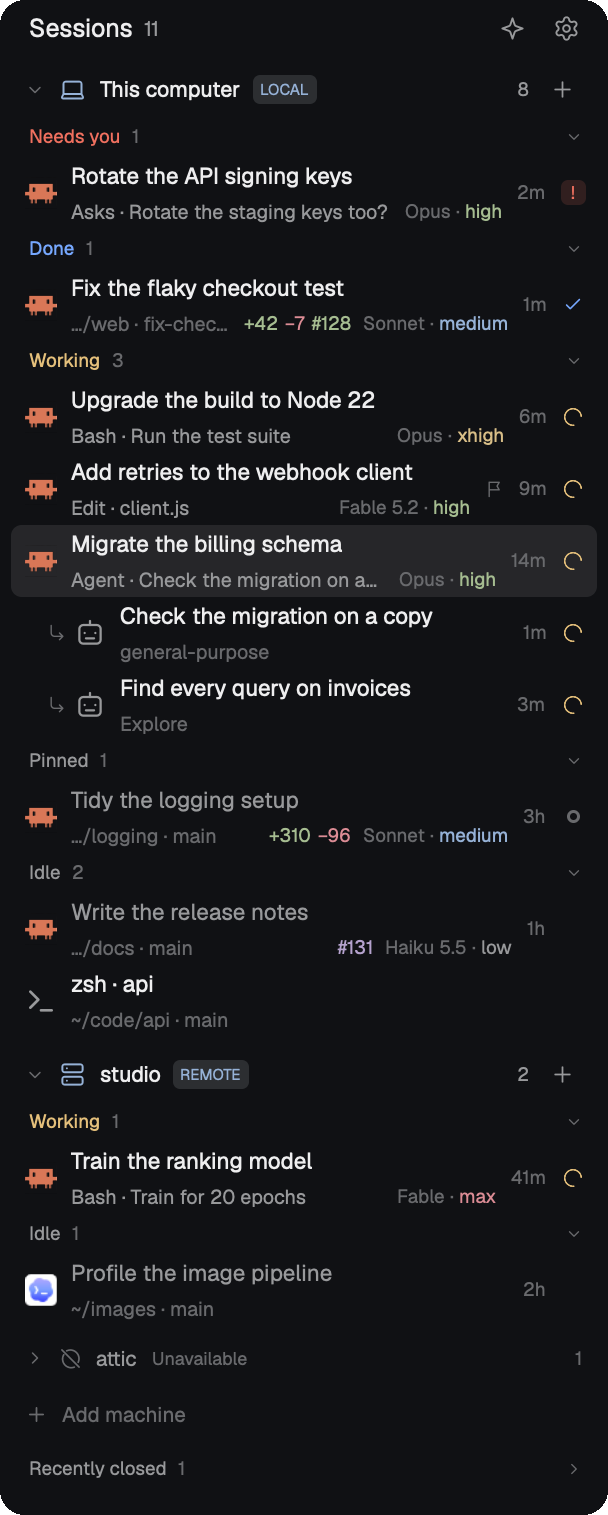
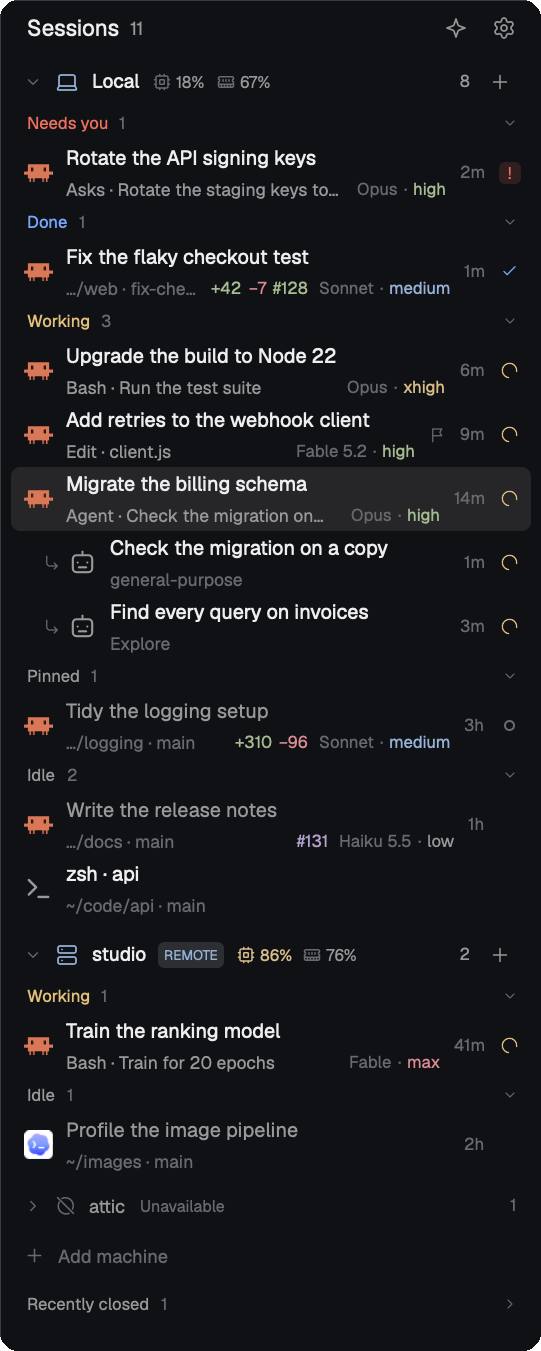
feat: each machine's CPU and memory beside its name
With more than one machine, each heading follows the name with its CPU
and the share of its memory in use, in the count's gray, turning amber
and red at herdr-stats' thresholds. On a Mac memory goes by its
pressure, since most of it is always in use. The figures give way,
memory first, when the sidebar is narrow; the tooltip keeps them.

Every ten seconds, while headings show, a short sh script measures each
machine: iostat over a second, sysctl and vm_stat on a Mac, /proc on
Linux. On this computer herdr-stats' snapshot is read instead while its
sampler runs. A switch in the List settings turns it off.

Also fixes Organize: it stored its asker in the probe's per-machine
clock, so the next probe threw and the background loop stopped until
the sidebar reloaded.

diff --git a/mods/agent-sidebar/main.js b/mods/agent-sidebar/main.js
@@ -1,8 +1,8 @@
 import { View, div, svg, image } from "gpui-kit";
 import { h_flex, v_flex, InputState, Input, ScrollHandle } from "gpui-base";
-import { agents, terminals, panes, spaces, machines, focused, theme, settings, run, hc, notify, setAgentOrder, nextCommand, openOverlay, props, shared, setShared, updates, exec, pickFolder, readTextFile, home } from "herdr";
-import { build, groups, counts, WORDS, BACKGROUND, modelName, fitWhere, activityText, tokens, canMove, movable, moveArgs, canReply, stale, ended, remember, resumeAction, organizeBrief, organizePlan, previewOf, latestCodex, organizeAnswer, ORGANIZE_SYSTEM, ORGANIZE_SCHEMA, folderKey, DENSITY_KEY, GROUP_KEY, SETTINGS_KEY, settingsOf, STALE_SESSION_MS, openAction, closeAction, duration, backgroundLines, machineOf, shortPath, holdDone, dropLeaving } from "./model.js";
-import { PROBE, PROBE_MS, KIND, CHANGES, PULLS, parseChanges, parsePulls, machineKind, parseProbe, probeArgs, probeTargets, workOf, signature } from "./background.js";
+import { agents, terminals, panes, spaces, machines, focused, theme, settings, run, hc, notify, setAgentOrder, nextCommand, openOverlay, props, shared, setShared, updates, exec, pickFolder, readTextFile, home, window } from "herdr";
+import { build, groups, counts, WORDS, BACKGROUND, modelName, fitWhere, activityText, tokens, canMove, movable, moveArgs, canReply, stale, ended, remember, resumeAction, organizeBrief, organizePlan, previewOf, latestCodex, organizeAnswer, ORGANIZE_SYSTEM, ORGANIZE_SCHEMA, folderKey, DENSITY_KEY, GROUP_KEY, SETTINGS_KEY, settingsOf, STALE_SESSION_MS, openAction, closeAction, duration, backgroundLines, machineOf, shortPath, holdDone, dropLeaving, statFigures, statsText } from "./model.js";
+import { PROBE, PROBE_MS, KIND, CHANGES, PULLS, STATS, STATS_MS, STATS_STALE_MS, parseChanges, parsePulls, machineKind, parseProbe, parseStats, snapshotStats, probeArgs, probeTargets, workOf, signature } from "./background.js";
 import { initLauncher, renderLauncher, LAUNCHER } from "./launcher.js";
 import { initSettings, renderSettings, SETTINGS } from "./settings.js";
 import { demo } from "./demo.js";
@@ -84,6 +84,12 @@ const HEIGHT = { host: 30, hostState: 10, hostGap: 6, away: 24, section: 22, fol
 const hostHeight = (group, first, firstAway) => isAway(group) ? HEIGHT.away + (firstAway && !first ? HEIGHT.hostGap : 0)
   : HEIGHT.host + (hostState(group) ? HEIGHT.hostState : 0) + (first ? 0 : HEIGHT.hostGap);
 const NEWS = new Set(["blocked", "done"]);
+// A machine's figures (model.js statFigures), each a glyph, a gap and "100%" at most, and the
+// gap between two.
+const STAT_WIDTH = 34;
+const STAT_GAP = 7;
+// What a reading shows, without its time: the heading redraws only when this changes.
+const statsKey = r => r ? statFigures(r).map(f => `${f.key}:${f.text}:${f.level}`).join(" ") : "";
 // Per-copy conveniences only (folded hosts and sections). Storage can be missing or throw.
 const store = {
   get(key, fallback) { try { return JSON.parse(localStorage.getItem(key)) ?? fallback; } catch { return fallback; } },
@@ -120,9 +126,9 @@ export default class AgentSidebar extends View {
     this.pending = [];
     // New spaces a move makes, to name once Herdr shows them: { id, name, at }.
     this.naming = [];
-    // The suggestion for the spaces (Claude's or Codex's, `asked`): null, "asking", or
+    // The suggestion for the spaces (Claude's or Codex's, `asker`): null, "asking", or
     // { renames, moves } to apply.
-    this.asked = "Claude";
+    this.asker = "Claude";
     this.plan = null;
     // The moves of that suggestion the person took out, and which asking an answer is for.
     this.skip = new Set();
@@ -188,7 +194,8 @@ export default class AgentSidebar extends View {
     this.stale = new Set(); // machines to ask again as soon as allowed
     this.kinds = new Map(); // machine → true once it said what it is, else when it was asked
     this.git = new Map(); // machine → { changes, pulls: folder → what git and GitHub said, asked, pulled: when }
-    if (example) Object.assign(this, { work: example.work, git: example.git });
+    this.stats = new Map(); // machine → { reading: how busy it was (background.js STATS), asked: when, asking }
+    if (example) Object.assign(this, { work: example.work, git: example.git, stats: example.stats });
     cx.spawn(async cx => {
       let wake = () => {};
       for (;;) {
@@ -196,6 +203,7 @@ export default class AgentSidebar extends View {
           this.probe(() => wake());
           this.askKinds(() => wake());
           this.askGit(() => wake());
+          this.askStats(() => wake());
           this.finishMoves();
         }
         // A second, or less when an answer arrives or a move is under way.
@@ -297,6 +305,38 @@ export default class AgentSidebar extends View {
         ask(PULLS, branches, 30000, out => { state.pulls = parsePulls(out, branches); });
       }
     }
+  }
+
+  // Asks each machine whose heading shows (render's `this.headed`) how busy it is, every
+  // STATS_MS: nothing while the figures are off, in a rail, or with no machine headings. This
+  // computer's are herdr-stats' own when its sampler runs, read from its snapshot; otherwise,
+  // and on every other machine, the STATS script measures them.
+  askStats(answered) {
+    const due = this.cfg.stats ? this.headed ?? [] : [];
+    for (const machine of [...this.stats.keys()]) if (!due.includes(machine)) this.stats.delete(machine);
+    const now = Date.now();
+    for (const machine of due) {
+      if (!this.stats.has(machine)) this.stats.set(machine, { reading: null, asked: 0, asking: false });
+      const state = this.stats.get(machine);
+      if (state.asking || now - state.asked < STATS_MS) continue;
+      Object.assign(state, { asked: now, asking: true });
+      this.measure(machine).then(reading => {
+        if (!reading) return;
+        const before = statsKey(state.reading);
+        state.reading = reading;
+        if (statsKey(reading) !== before) { this.changed = true; answered(); }
+      }).catch(() => { /* asked again later; the last reading goes stale */ }).finally(() => { state.asking = false; });
+    }
+  }
+
+  async measure(machine) {
+    if (machine == null) {
+      const cache = window()?.platform === "macos" ? "Library/Caches" : ".cache";
+      const snap = snapshotStats(await readTextFile(`${home()}/${cache}/herdr-stats/snapshot.json`).catch(() => null));
+      if (snap) return snap;
+    }
+    const result = await exec("sh", ["-c", STATS], { on: machine, timeout: 10000 });
+    return result.code === 0 ? parseStats(result.stdout) : null;
   }
 
   // The launcher: a folder, then a shell or an agent to start there. At the pointer from a +,
@@ -515,7 +555,7 @@ export default class AgentSidebar extends View {
     const failed = why => { if (ask !== this.asks) return; this.plan = null; notify({ title: "Could not organize the sessions", body: String(why ?? "").trim().slice(0, 200), level: "warning" }); };
     const cfg = this.cfg;
     const codex = cfg.organizeWith === "codex";
-    const who = this.asked = ASKED[cfg.organizeWith];
+    const who = this.asker = ASKED[cfg.organizeWith];
     const schema = JSON.stringify(ORGANIZE_SCHEMA);
     // Codex is given the latest model of the family chosen, as its own list has it.
     const asking = !codex ? exec("sh", ["-c", ORGANIZE_SH, "sh", ...organizeArgs(cfg), "--json-schema", schema, "--system-prompt", ORGANIZE_SYSTEM, prompt], { on: null, timeout: 120000 })
@@ -555,7 +595,7 @@ export default class AgentSidebar extends View {
     const asking = this.plan === "asking";
     const codex = this.cfg.organizeWith === "codex";
     const model = codex ? (this.cfg.organizeCodex === "auto" ? "its own model" : `latest ${this.cfg.organizeCodex}`) : this.cfg.organizeModel;
-    const tip = asking ? `Asking ${this.asked}…` : `Organize into spaces with ${ASKED[this.cfg.organizeWith]} (${model}, ${this.cfg.organizeEffort} effort): previews, then asks`;
+    const tip = asking ? `Asking ${this.asker}…` : `Organize into spaces with ${ASKED[this.cfg.organizeWith]} (${model}, ${this.cfg.organizeEffort} effort): previews, then asks`;
     return div().id("organize").size(26).flex_none().rounded(6).flex().items_center().justify_center()
       .role("button").accessibility_label(tip).cursor_pointer().text_color(asking ? t.accent : t.muted)
       .hover(s => s.bg(t.hover).text_color(t.foreground)).tooltip(tip)
@@ -576,7 +616,7 @@ export default class AgentSidebar extends View {
     if (!preview) {
       return box.child(h_flex().gap(7).items_center()
         .child(glyph("sparkles", 13).text_color(t.accent).loop("opacity", { from: 0.35, to: 1, period: 1100 }))
-        .child(div().flex_1().min_w(0).truncate().text_size(11.5).font_medium().child(`Asking ${this.asked} how to arrange them…`))
+        .child(div().flex_1().min_w(0).truncate().text_size(11.5).font_medium().child(`Asking ${this.asker} how to arrange them…`))
         .child(button("plan-dismiss", "Cancel", false, dismiss)));
     }
     const count = (n, one, many) => n ? `${n} ${n === 1 ? one : many}` : "";
@@ -585,7 +625,7 @@ export default class AgentSidebar extends View {
     return box
       .child(h_flex().gap(7).items_center()
         .child(glyph("sparkles", 13).text_color(t.accent))
-        .child(div().flex_1().min_w(0).truncate().text_size(11.5).font_medium().child(`${this.asked}'s suggestion, previewed below`)))
+        .child(div().flex_1().min_w(0).truncate().text_size(11.5).font_medium().child(`${this.asker}'s suggestion, previewed below`)))
       .child(div().text_size(11).text_color(t.muted).child(summary))
       .child(div().text_size(10.5).text_color(t.dim).child("Highlighted sessions would move. Click one to leave it where it is. Nothing changes until you apply; Esc dismisses."))
       .child(h_flex().gap(6).mt(1).items_center()
@@ -1118,13 +1158,23 @@ export default class AgentSidebar extends View {
     const space = this.bySpace && !state ? this.newSpaceButton(t, group) : null;
     const kind = this.x.shared(KINDS_KEY)?.[group.name ?? ""];
     const icon = KIND_ICON[kind] ?? (group.remote ? "server" : "computer");
-    const label = `${group.remote ? "Remote" : "Local"} host ${group.label}, ${counts(group.rows).all} sessions${state ? `, ${state}` : ""}, ${open ? "expanded" : "collapsed"}`;
+    const reading = this.statsOf(group);
+    const busy = reading ? statsText(reading) : "";
+    const label = `${group.remote ? "Remote" : "Local"} host ${group.label}, ${counts(group.rows).all} sessions${state ? `, ${state}` : ""}${busy ? `, ${busy}` : ""}, ${open ? "expanded" : "collapsed"}`;
     const root = h_flex().id(`host-${group.key}`).flex_none().items_center()
       .role("button").accessibility_label(label).cursor_pointer()
-      .tooltip(`${group.remote ? "Remote host" : "Local machine"}: ${group.label}${KIND_ICON[kind] ? ` · ${kind}` : ""}${state ? ` · ${state}` : ""}`)
+      .tooltip(`${group.remote ? "Remote host" : "Local machine"}: ${group.label}${KIND_ICON[kind] ? ` · ${kind}` : ""}${state ? ` · ${state}` : ""}${busy ? `\n${busy}` : ""}`)
       .on_click((_e, cx) => this.toggle(group.key, cx));
     if (compact) return root.h(30).px(6).gap(4).justify_center().when(!first, el => el.mt(4).border_t(1).border_color(t.border))
       .child(glyph(icon, 14).text_color(color)).child(add);
+    const summary = open ? [] : this.summary(t, group);
+    // The figures take the room the name leaves, and go when there is too little (the tooltip
+    // keeps them). Roughly: the padding, chevron and icon; the name and its tag; the summary,
+    // count and buttons at the end.
+    const room = this.width - 12 - 50 - Math.ceil(group.label.length * 6.4) - (group.remote ? 50 : 0)
+      - summary.length * 30 - 60 - (space ? 30 : 0) - 8;
+    const shown = reading ? statFigures(reading).slice(0, Math.max(0, Math.floor((room + STAT_GAP) / (STAT_WIDTH + STAT_GAP)))) : [];
+    const tones = [t.muted, t.ansi3 ?? t.working, t.ansi1 ?? t.blocked];
     // Grouped by space, a machine's heading also starts a new space there.
     return root.h(HEIGHT.host + (state ? HEIGHT.hostState : 0)).px(8).gap(8).rounded(6)
       .when(!first, el => el.mt(HEIGHT.hostGap))
@@ -1134,12 +1184,22 @@ export default class AgentSidebar extends View {
       .child(v_flex().flex_1().min_w(0).gap(1)
         .child(h_flex().min_w(0).gap(6).items_center()
           .child(div().min_w(0).truncate().font_semibold().text_size(12).text_color(t.foreground).child(group.label))
-          .when(group.remote, el => el.child(div().flex_none().px(4).py(1).rounded(4).bg(t.raised).text_size(8.5).font_semibold().text_color(color).child("REMOTE"))))
+          .when(group.remote, el => el.child(div().flex_none().px(4).py(1).rounded(4).bg(t.raised).text_size(8.5).font_semibold().text_color(color).child("REMOTE")))
+          .when(shown.length > 0, el => el.child(h_flex().id(`stats-${group.key}`).flex_none().ml(2).gap(STAT_GAP).items_center().tooltip(busy)
+            .children(shown.map(f => h_flex().id(`stat-${group.key}-${f.key}`).flex_none().gap(3).items_center()
+              .child(glyph(f.key, 11).text_color(f.level ? tones[f.level] : t.dim))
+              .child(div().min_w(19).text_size(10).text_color(tones[f.level]).child(f.text)))))))
         .when(Boolean(state), el => el.child(div().text_size(10).text_color(group.layout === "loading" ? t.muted : t.blocked).child(state))))
-      .when(!open, el => el.children(this.summary(t, group)))
+      .children(summary)
       .child(div().flex_none().min_w(14).text_size(10.5).text_color(t.muted).text_right().child(String(counts(group.rows).all)))
       .when(Boolean(space), el => el.child(space))
       .child(add);
+  }
+
+  // The machine's last reading, while the figures are on and it is fresh.
+  statsOf(group) {
+    const reading = this.cfg.stats ? this.stats.get(group.name ?? null)?.reading : null;
+    return reading && Date.now() - reading.at <= STATS_STALE_MS ? reading : null;
   }
 
   newSpaceButton(t, group, size = 22) {
@@ -1220,6 +1280,9 @@ export default class AgentSidebar extends View {
     this.expanded = this.x.shared(DENSITY_KEY) === "expanded";
     // Only this computer: no host heading, which would only repeat it. Its + moves to the title bar.
     this.single = !hosts.some(host => host.name != null);
+    // The machines whose heading shows, for askStats: their figures go beside the name, or only
+    // into its tooltip when the name leaves no room.
+    this.headed = this.single || compact ? [] : sections.filter(group => !group.flat && !isAway(group) && group.layout === "ready").map(group => group.name ?? null);
     const local = { layout: "loading", ...hosts.find(host => host.name == null), name: null, key: "local", label: "Local" };
     this.visible = [];
     this.positions = new Map();

diff --git a/mods/agent-sidebar/background.js b/mods/agent-sidebar/background.js
@@ -274,6 +274,75 @@ esac
 export const KINDS = ["laptop", "desktop", "server"];
 export const machineKind = output => KINDS.find(kind => kind === String(output ?? "").trim()) ?? null;
 
+// How busy a machine is, for its heading. POSIX sh; prints one line,
+//   U <cpu %|-> <memory used, bytes> <memory, bytes> <pressure %|->
+// CPU is the share busy over one second: on a Mac iostat's second report (its first is since
+// boot), elsewhere /proc/stat read a second apart. Memory used is counted as herdr-stats and
+// Activity Monitor count it on a Mac (app, wired and compressed), MemTotal less MemAvailable
+// elsewhere; a Mac's memory pressure is what kern.memorystatus_level leaves free. About 10 ms
+// of work and a second of waiting; it changes nothing.
+export const STATS = `PATH="$PATH:/usr/sbin:/sbin"
+case $(uname -s 2>/dev/null) in
+  Darwin)
+    cpu=$(iostat -n 0 -c 2 -w 1 2>/dev/null | awk 'END { if (NF >= 3 && $3 ~ /^[0-9]+$/) print 100 - $3; else print "-" }')
+    set -- $(sysctl -n hw.memsize kern.memorystatus_level 2>/dev/null)
+    vm_stat 2>/dev/null | awk -v cpu="\${cpu:--}" -v total="\${1:-0}" -v level="\${2:--}" '
+      /page size of/ { for (i = 1; i < NF; i++) if ($i == "of") page = $(i + 1) }
+      /^Anonymous pages:/ { app = $NF + 0 }
+      /^Pages purgeable:/ { purge = $NF + 0 }
+      /^Pages wired down:/ { wired = $NF + 0 }
+      /^Pages occupied by compressor:/ { comp = $NF + 0 }
+      END {
+        used = (app - purge + wired + comp) * page
+        if (used > total) used = total
+        pressure = "-"
+        if (level ~ /^[0-9]+$/ && level + 0 <= 100) pressure = 100 - level
+        printf "U %s %.0f %.0f %s\\n", cpu, used, total, pressure
+      }' ;;
+  Linux)
+    { head -n 1 /proc/stat; sleep 1; head -n 1 /proc/stat; cat /proc/meminfo; } 2>/dev/null | awk '
+      $1 == "cpu" { n++; busy[n] = $2 + $3 + $4 + $7 + $8 + $9; idle[n] = $5 + $6 }
+      $1 == "MemTotal:" { total = $2 * 1024 }
+      $1 == "MemAvailable:" { avail = $2 * 1024; seen = 1 }
+      END {
+        cpu = "-"
+        d = busy[2] - busy[1] + idle[2] - idle[1]
+        if (n == 2 && d > 0) cpu = sprintf("%.0f", (busy[2] - busy[1]) * 100 / d)
+        if (!seen) total = avail = 0
+        printf "U %s %.0f %.0f -\\n", cpu, total - avail, total
+      }' ;;
+esac
+`;
+// A machine is asked this often while its heading shows; a reading older than STATS_STALE_MS
+// is not shown (the machine stopped answering).
+export const STATS_MS = 10000;
+export const STATS_STALE_MS = 45000;
+const share = n => Math.min(Math.max(n, 0), 100) / 100;
+// What STATS printed: { cpu, used, total, pressure, at } (cpu and pressure fractions of one or
+// null, memory null when it said none), or null when it said nothing.
+export function parseStats(output, at = Date.now()) {
+  const m = /^U (-|\d{1,3}) (\d{1,20}) (\d{1,20}) (-|\d{1,3})$/m.exec(String(output ?? ""));
+  if (!m) return null;
+  const total = Number(m[3]);
+  const reading = { cpu: m[1] === "-" ? null : share(Number(m[1])), used: total > 0 ? Math.min(Number(m[2]), total) : null,
+    total: total > 0 ? total : null, pressure: m[4] === "-" ? null : share(Number(m[4])), at };
+  return reading.cpu === null && reading.total === null ? null : reading;
+}
+// herdr-stats' snapshot of this computer (its file: herdr-stats/snapshot.json in the cache
+// folder), when its sampler is running: the same figures, read rather than measured again.
+// Null when it is missing, unreadable, of another version, or older than `fresh`.
+export function snapshotStats(text, now = Date.now(), fresh = 5000) {
+  let snap;
+  try { snap = JSON.parse(text); } catch { return null; }
+  if (snap?.v !== 1 || !Number.isFinite(snap.t) || Math.abs(now - snap.t) > fresh) return null;
+  const fraction = n => Number.isFinite(n) ? Math.min(Math.max(n, 0), 1) : null;
+  const { total, used } = snap.mem ?? {};
+  const memory = Number.isFinite(total) && total > 0 && Number.isFinite(used);
+  const reading = { cpu: fraction(snap.cpu?.total), used: memory ? Math.min(Math.max(used, 0), total) : null, total: memory ? total : null,
+    pressure: fraction(snap.mem?.pressure), at: snap.t };
+  return reading.cpu === null && reading.total === null ? null : reading;
+}
+
 // What each folder has changed since its last commit, and its branch's pull request. POSIX sh;
 // the folders are the arguments, and each answer names its folder by its place among them.
 // git is asked not to take its optional locks, so it never gets in the way of an agent's own

diff --git a/mods/agent-sidebar/model.js b/mods/agent-sidebar/model.js
@@ -544,13 +544,36 @@ export function previewOf(rows, spaces, plan, skip = new Set()) {
 // answer it. Never to a shell, where it would run.
 export const canReply = row => Boolean(row?.available && row.kind === "agent" && !row.inner && row.reported !== "blocked");
 
+// How busy a machine is (background.js parseStats), beside its name: CPU and memory in use,
+// quiet until one runs high, then a warning (1) and worse (2) at herdr-stats' thresholds.
+// Memory goes by its pressure where the machine says it (a Mac keeps most of its memory in use,
+// and only the pressure says it is short), else by how much of it is used.
+export const STAT_LEVELS = { cpu: [0.7, 0.9], used: [0.8, 0.92], pressure: [0.5, 0.75] };
+const statLevel = (value, [warn, crit]) => value == null ? 0 : value >= crit ? 2 : value >= warn ? 1 : 0;
+const percent = x => `${Math.round(x * 100)}%`;
+const gigabytes = n => (n / 2 ** 30).toFixed(n < 100 * 2 ** 30 ? 1 : 0).replace(/\.0$/, "");
+// [{ key: "cpu" | "memory", text: "23%", level: 0 | 1 | 2 }], in that order.
+export function statFigures(r) {
+  const out = [];
+  if (r?.cpu != null) out.push({ key: "cpu", text: percent(r.cpu), level: statLevel(r.cpu, STAT_LEVELS.cpu) });
+  if (r?.total) {
+    const used = r.used / r.total;
+    out.push({ key: "memory", text: percent(used), level: r.pressure != null ? statLevel(r.pressure, STAT_LEVELS.pressure) : statLevel(used, STAT_LEVELS.used) });
+  }
+  return out;
+}
+// "CPU 45% · Memory 52.1 of 64 GB (81%), pressure 33%"
+export const statsText = r => [r?.cpu != null ? `CPU ${percent(r.cpu)}` : "",
+  r?.total ? `Memory ${gigabytes(r.used)} of ${gigabytes(r.total)} GB (${percent(r.used / r.total)})${r.pressure != null ? `, pressure ${percent(r.pressure)}` : ""}` : ""]
+  .filter(Boolean).join(" · ");
+
 // The sidebar's settings, in Herdr's shared state: the person's, so every copy and layout
 // follows. Density and grouping have keys of their own (a key can be bound to each).
 export const DENSITY_KEY = "agent-sidebar.density";
 export const GROUP_KEY = "agent-sidebar.group";
 export const SETTINGS_KEY = "agent-sidebar.settings";
 export const DEFAULTS = {
-  folders: true, subagents: true, shells: true, away: true,
+  folders: true, subagents: true, shells: true, away: true, stats: true,
   model: true, effort: true, effortColors: true, activity: true, context: true, changes: true, pulls: true, age: true,
   addMachine: true, closed: true, cleanup: true, cleanupDays: 1,
   organize: true, organizeWith: "claude", organizeModel: "sonnet", organizeCodex: "terra", organizeEffort: "low",

diff --git a/mods/agent-sidebar/demo.js b/mods/agent-sidebar/demo.js
@@ -56,5 +56,9 @@ export function demo(now = Date.now()) {
     "agent-sidebar.closed": [{ title: "Compare two caching layers", cwd: "/Users/me/code/api", machine: null, session: "demo-1", at: now - 20 * MINUTE }],
   };
   const machines = [{ name: null, layout: "ready" }, { name: "studio", layout: "ready" }, { name: "attic", layout: "unavailable" }];
-  return { machines, terminals, panes, spaces, focused: { terminal: "t5", space: "s1" }, work, git, shared };
+  // How busy each machine is (background.js STATS): this one at ease, the studio training hard.
+  const GB = 2 ** 30;
+  const busy = (cpu, used, total, pressure) => ({ reading: { cpu, used: used * GB, total: total * GB, pressure, at: Number.MAX_SAFE_INTEGER }, asked: Infinity, asking: false });
+  const stats = new Map([[null, busy(0.18, 21.4, 32, 0.12)], ["studio", busy(0.86, 97, 128, 0.31)]]);
+  return { machines, terminals, panes, spaces, focused: { terminal: "t5", space: "s1" }, work, git, stats, shared };
 }

diff --git a/mods/agent-sidebar/settings.js b/mods/agent-sidebar/settings.js
@@ -27,6 +27,7 @@ const SWITCHES = {
     ["subagents", "Sub-agents", "Claude Code's own sub-agents, under their session. Hidden, they still keep it in Working."],
     ["shells", "Shells and programs", "Terminals that run no agent."],
     ["away", "Machines that are away", "One dim line for each machine Herdr can't reach, after the others."],
+    ["stats", "CPU and memory", "How busy each machine is, beside its name. Off, no machine is asked."],
     ["addMachine", "Add machine", "The line that connects another machine."],
     ["closed", "Recently closed", "Claude Code sessions that ended, to reopen where they left off."],
     ["cleanup", "Clean up old sessions", "A line that closes every session idle for too long, on a second click."],

diff --git a/README.md b/README.md
@@ -7,7 +7,7 @@ on this computer and on your other machines, in one list grouped by machine and 
 needs from you. Agents that finished their turn but left work running stay under Working, and
 Claude Code's sub-agents appear under the session that started them.
 
-![Herdr's sidebar, titled Sessions 11, with a star and a gear. Under "This computer · LOCAL", a laptop: Needs you, "Rotate the API signing keys" asking "Rotate the staging keys too?", Opus · high; Done, "Fix the flaky checkout test" in web on fix-checkout, +42 −7, pull request #128, Sonnet · medium; Working, "Upgrade the build to Node 22" running the test suite, Opus · xhigh, "Add retries to the webhook client" editing client.js with a flag for its goal, Fable 5.2 · high, and "Migrate the billing schema", selected, with two sub-agents under it, "Check the migration on a copy" and "Find every query on invoices"; Pinned, "Tidy the logging setup", +310 −96; Idle, "Write the release notes" with pull request #131, Haiku 5.5 · low, and the shell "zsh · api". Under "studio · REMOTE", a server: Working, "Train the ranking model" training for 20 epochs, Fable · max; Idle, "Profile the image pipeline". Then one dim line, "attic · Unavailable", Add machine, and Recently closed 1. These are example sessions.](preview.png)
+![Herdr's sidebar, titled Sessions 11, with a star and a gear. Under "Local", a laptop, with its CPU at 18% and its memory at 67% beside the name: Needs you, "Rotate the API signing keys" asking "Rotate the staging keys too?", Opus · high; Done, "Fix the flaky checkout test" in web on fix-checkout, +42 −7, pull request #128, Sonnet · medium; Working, "Upgrade the build to Node 22" running the test suite, Opus · xhigh, "Add retries to the webhook client" editing client.js with a flag for its goal, Fable 5.2 · high, and "Migrate the billing schema", selected, with two sub-agents under it, "Check the migration on a copy" and "Find every query on invoices"; Pinned, "Tidy the logging setup", +310 −96; Idle, "Write the release notes" with pull request #131, Haiku 5.5 · low, and the shell "zsh · api". Under "studio · REMOTE", a server at 86% CPU, in amber, and 76% memory: Working, "Train the ranking model" training for 20 epochs, Fable · max; Idle, "Profile the image pipeline". Then one dim line, "attic · Unavailable", Add machine, and Recently closed 1. These are example sessions.](preview.png)
 
 This is an unofficial mod. It is not affiliated with Herdr.
 
@@ -52,10 +52,11 @@ installer. Background work, sub-agents, and each session's model and effort are 
 | To | Do |
 | --- | --- |
 | Open a session | Click it. Herdr focuses its pane, or peeks at it if it has none. |
-| Change what the sidebar shows | Click the gear in the title bar (or bind a key to `agent-sidebar.settings`). The sidebar's own settings open in a window with four tabs. **Layout:** rows, grouping, folder headings and motion. **List:** sub-agents, shells, machines that are away, and the lines under the list (Add machine, Recently closed, Clean up and how old is old). **Sessions:** what each row says (model, effort and its colors, what it is doing, context size, lines changed, pull request, time in its state). **Organize:** the star's button, whether it asks Claude Code or Codex, and its model and effort. Each choice is kept in Herdr's shared state, so every copy of the sidebar follows. Turning off lines changed or pull requests also stops asking git or GitHub for them. **Herdr settings…** at the bottom opens Herdr's own, and **Reset to defaults** brings the defaults back. |
+| Change what the sidebar shows | Click the gear in the title bar (or bind a key to `agent-sidebar.settings`). The sidebar's own settings open in a window with four tabs. **Layout:** rows, grouping, folder headings and motion. **List:** sub-agents, shells, machines that are away, each machine's CPU and memory, and the lines under the list (Add machine, Recently closed, Clean up and how old is old). **Sessions:** what each row says (model, effort and its colors, what it is doing, context size, lines changed, pull request, time in its state). **Organize:** the star's button, whether it asks Claude Code or Codex, and its model and effort. Each choice is kept in Herdr's shared state, so every copy of the sidebar follows. Turning off lines changed or pull requests also stops asking git or GitHub for them, and turning off CPU and memory stops asking the machines how busy they are. **Herdr settings…** at the bottom opens Herdr's own, and **Reset to defaults** brings the defaults back. |
 | Pick one from the keyboard | With the sidebar focused (`pane.go`), Up and Down move through the sessions and Enter opens the one picked; Escape returns to the current session. |
 | Keep a session near the top | Hover its row and click the pin. A pinned session that has nothing to report sits under Pinned, above the idle ones, and comes first in its section otherwise. |
 | Fold a machine or a section | Click its heading. A folded machine still shows how many sessions need you, work or are done. |
+| See how busy each machine is | With more than one machine, each heading follows the name with its CPU and the share of its memory in use, as in `20% 75%`, in gray. One turns amber, then red, when it runs high: CPU at 70% and 90%; memory, on a Mac, when its memory pressure passes 50% and 75% (a Mac keeps most of its memory in use, and only the pressure says it is short), elsewhere at 80% and 92% used. They update every ten seconds and give way, memory first, when the sidebar is too narrow; the heading's tooltip always has them, with the memory in GB. |
 | Group sessions by space, or by project | Choose **Group by** in the settings (or bind a key to `agent-sidebar.group`, which goes from status to spaces to projects and round again). By space, each of Herdr's spaces is a heading, in Herdr's order and with its color, holding its sessions by urgency; one with no session keeps its heading. By project, spaces of one name on every machine are one heading, under no machine, and a session elsewhere says where. Whatever the grouping, what needs you comes first. Every copy of the sidebar follows the choice. |
 | See which model and effort a session runs with | Expanded, each Claude Code session's second line ends with them, as in `Opus 5.5 · xhigh · 159k`: the model, its effort in a color that warms with it (gray, blue, green, yellow, red), and the context its last turn was sent when there is room. Compact, `Opus · xhigh` follows the title when it fits. The tooltip always has them. |
 | See what a session is doing, or wants | While a Claude Code session works, its second line (expanded) or the space after its title (compact, when it fits) says its last step, as in `Bash · Run the tests`. One that needs you says what for: `Asks · Which database?`, `Wants Bash · Delete the build folder`. |
@@ -192,6 +193,16 @@ Once at each start, another script of a few lines asks each machine what it is (
 on a Mac `sysctl hw.model` and `pmset -g batt`; elsewhere the chassis type under `/sys`), so
 its heading can show a laptop, a desktop or a server. The answer, one word, is kept in Herdr's
 shared state. It changes nothing either.
+
+While machine headings show (more than one machine, the sidebar wider than a rail, CPU and
+memory on in the settings), a third short script asks each machine that is connected how busy it
+is, every ten seconds. On a Mac it runs `iostat` for one second of CPU, `sysctl` for the memory
+size and pressure, and `vm_stat`, counting memory in use as Activity Monitor does (app, wired
+and compressed); on Linux it reads `/proc/stat` twice a second apart and `/proc/meminfo`. That
+is about 10 ms of work and a second of waiting. On this computer, when
+[herdr-stats](https://github.com/jeffarese/herdr-stats-mod) is running its sampler, the figures
+are read from its snapshot (`herdr-stats/snapshot.json` in the cache folder) instead, and no
+script runs. The figures stay in memory. This changes nothing either.
 
 The launcher runs two more short `sh` scripts on the machine it starts on, the same way: one
 lists your project folders (at most once every ten minutes), the other the folders inside a path
